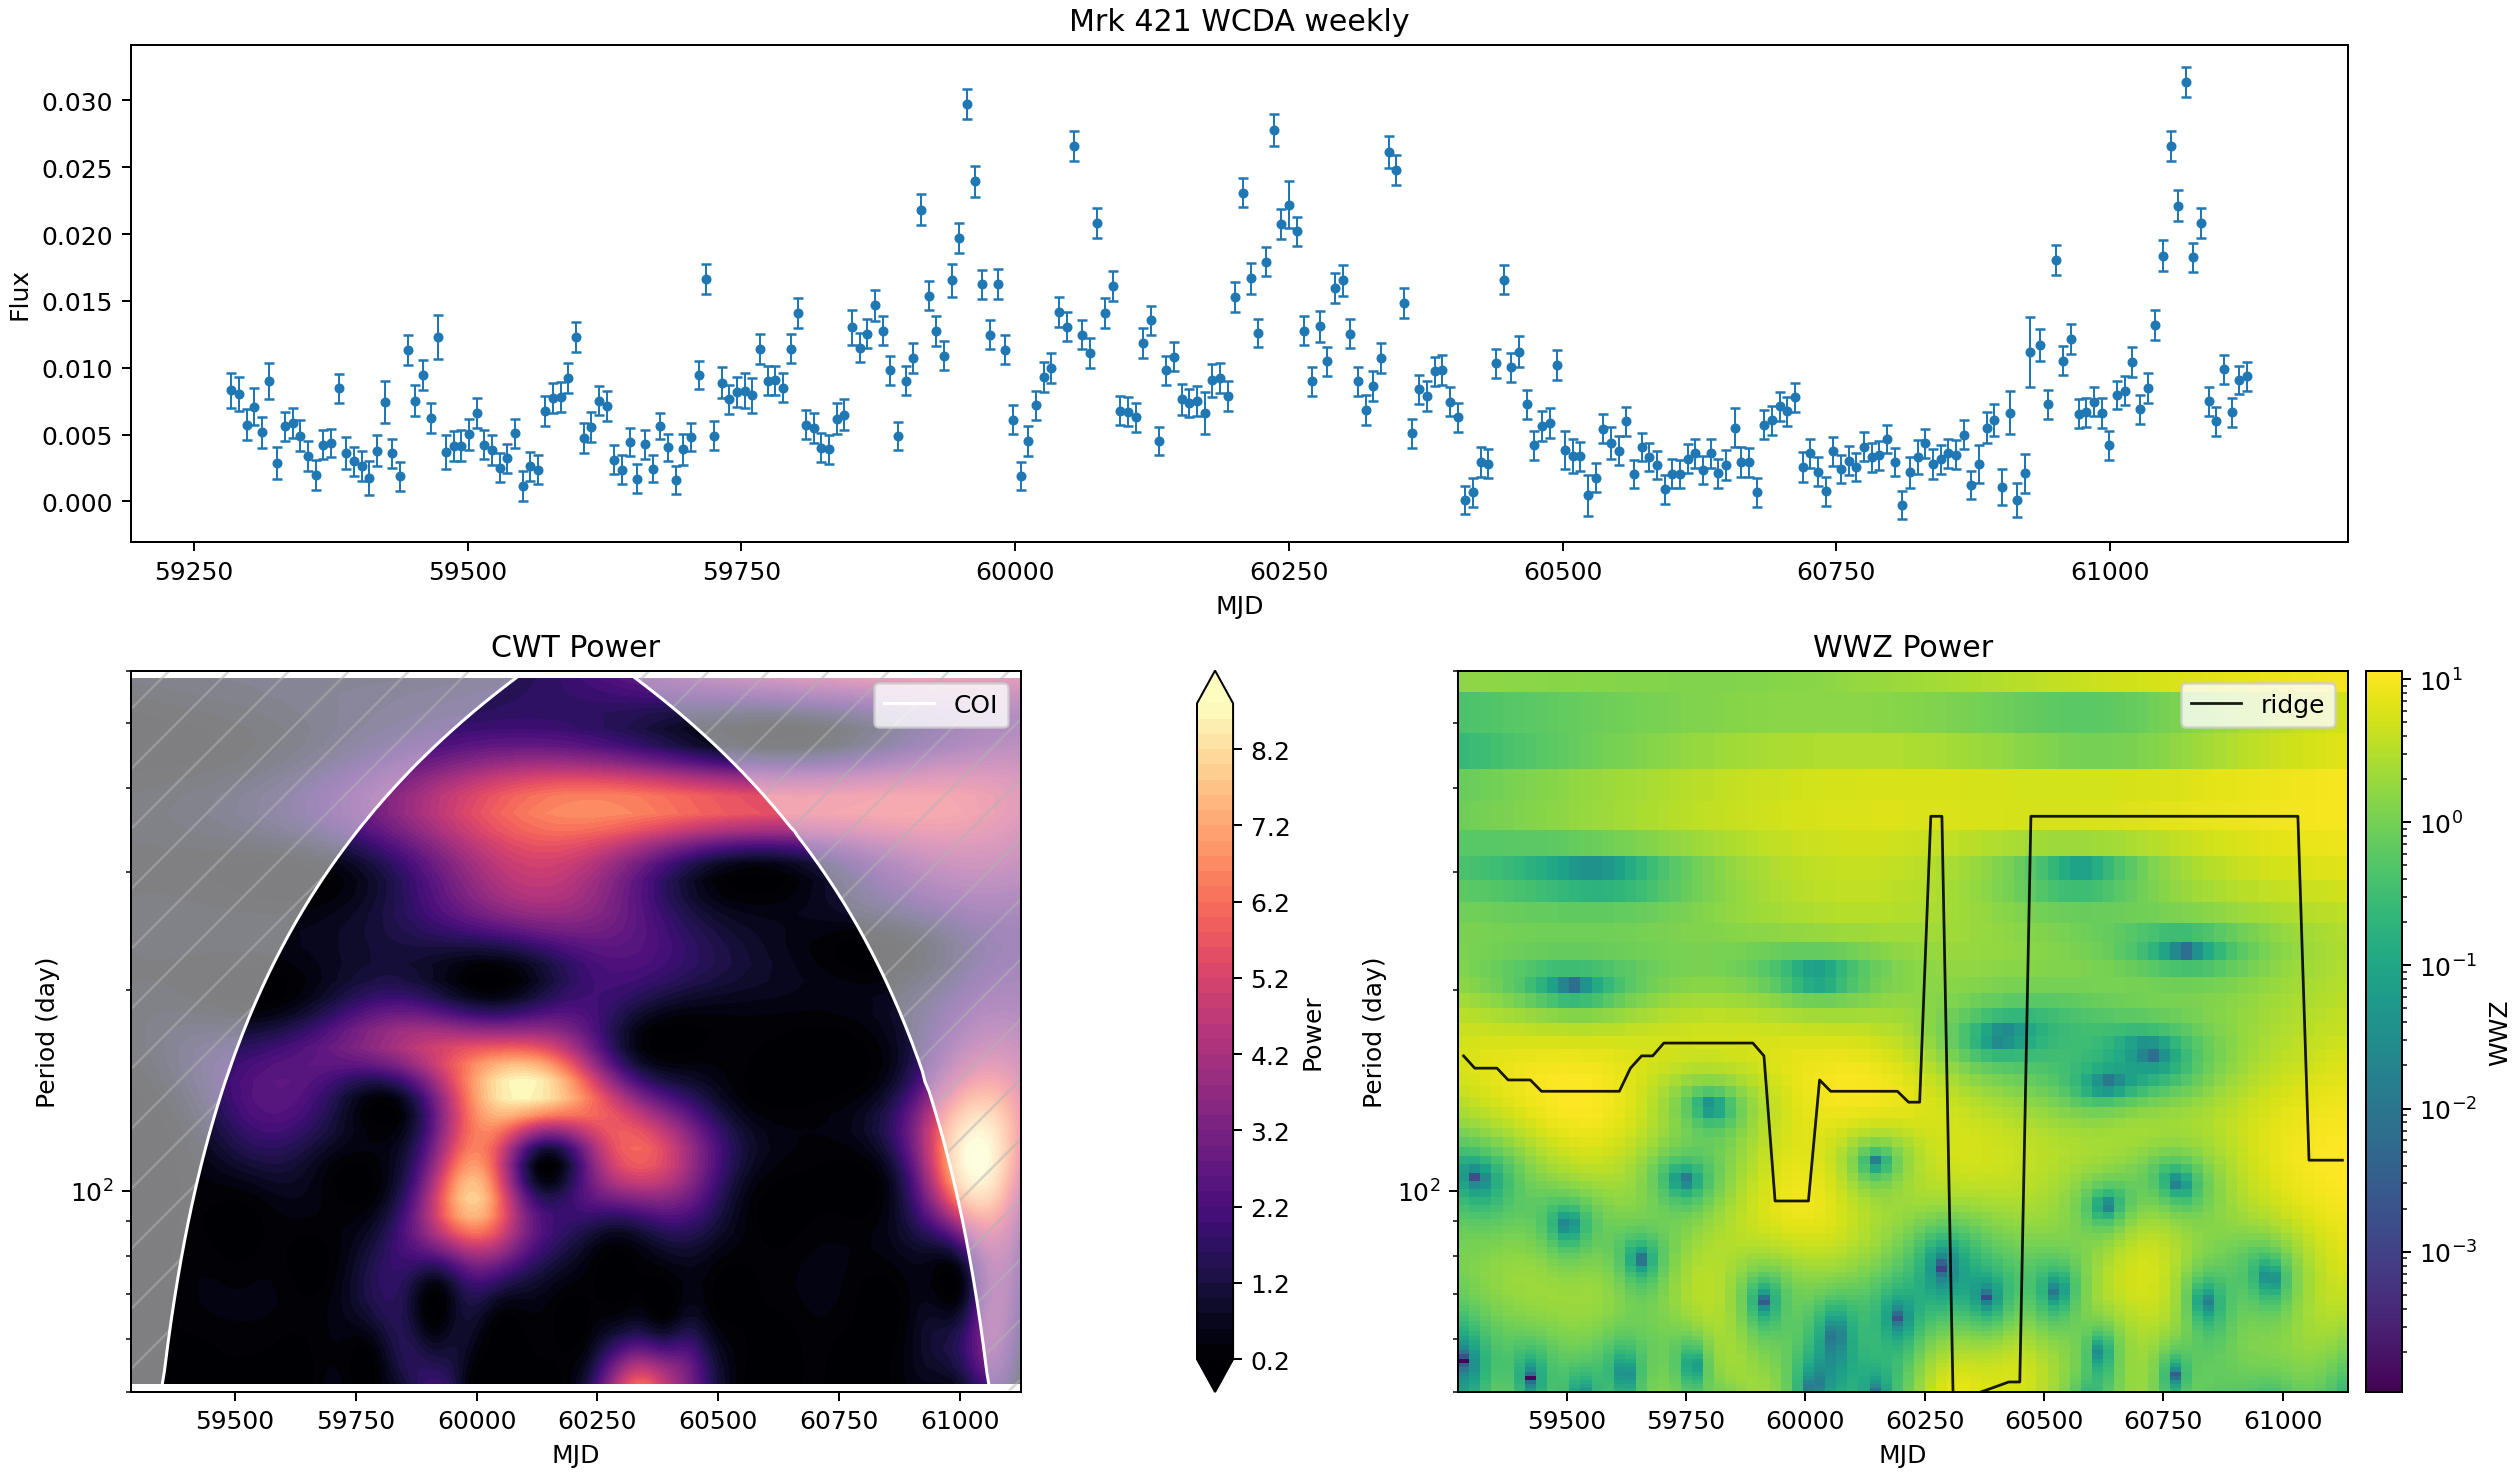
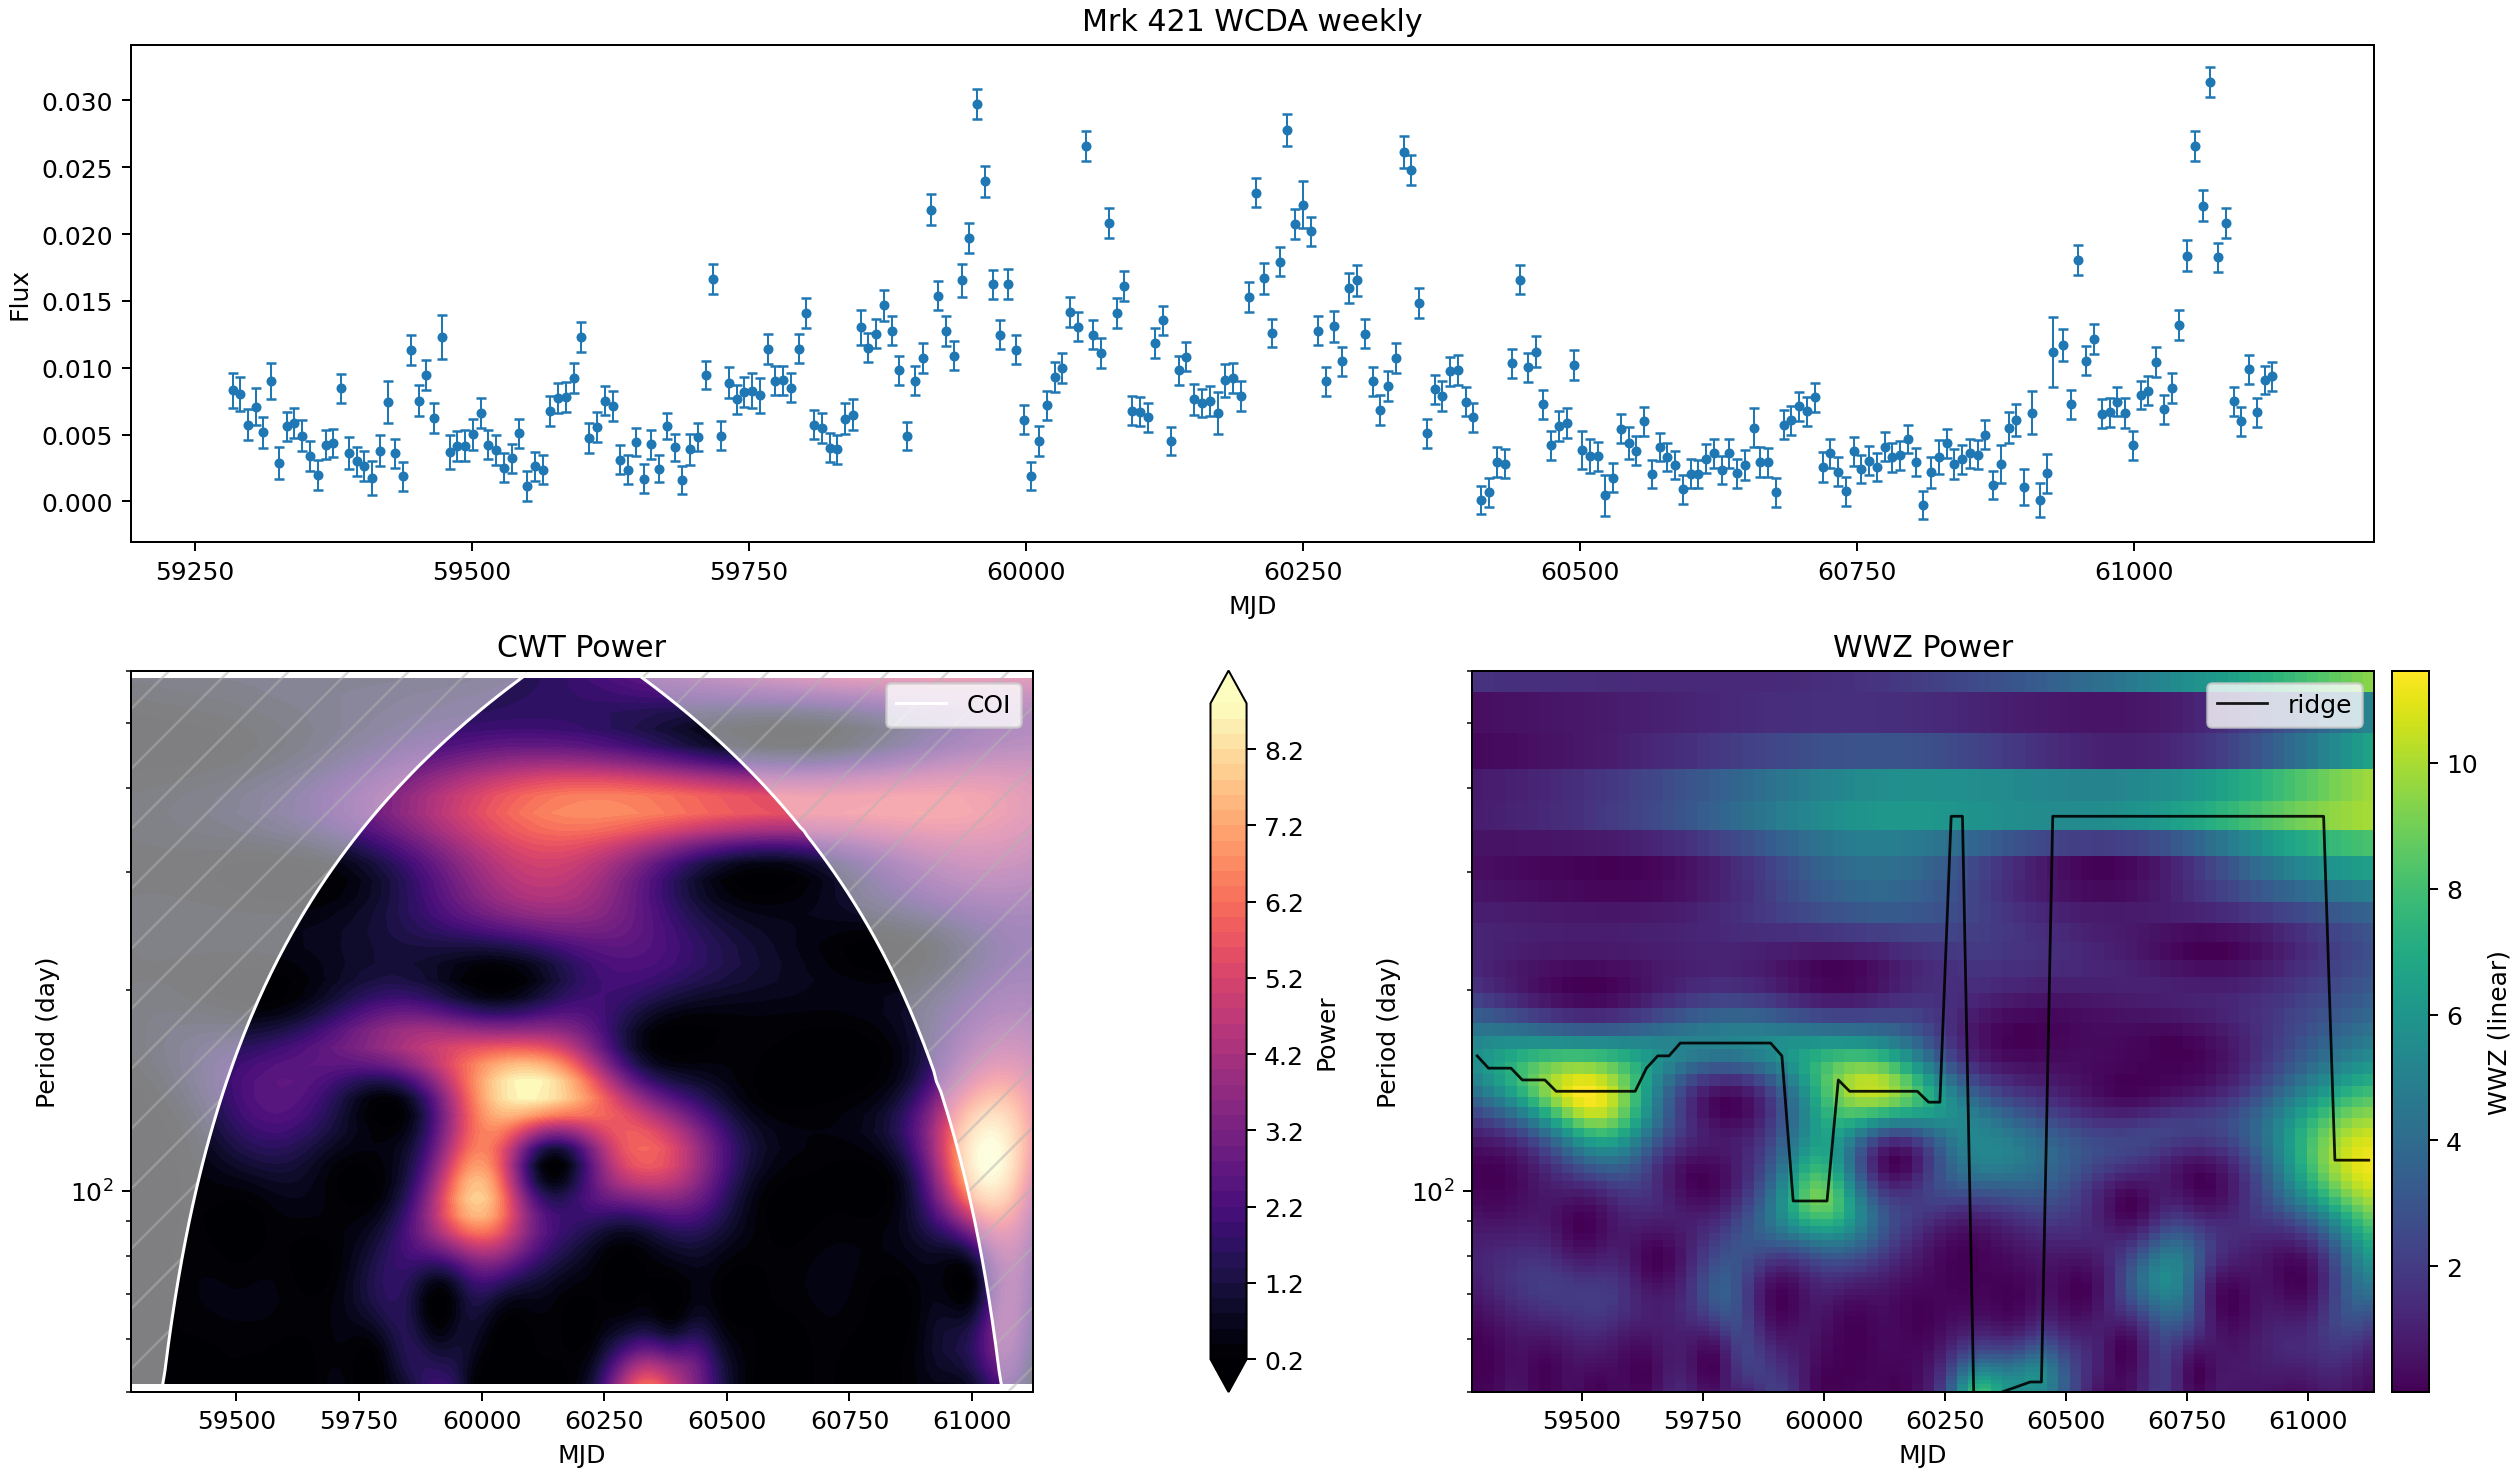
Use linear WWZ heatmaps with log comparisons

diff --git a/qpo-periodicity-v1/index.html b/qpo-periodicity-v1/index.html
@@ -154,7 +154,7 @@
 
     <h2>方法</h2>
     <p>WCDA flux 使用 excess rate 表示：<code>sum(n_on - n_bkg) / tobs</code>，误差使用逐 hit bin 传播的 Poisson-style on/off 近似。CWT 使用 <code>pycwt</code> 的 Morlet wavelet，WWZ 使用 <code>libwwz</code>，入口脚本为 <code>src/pipeline/periodicity_v1.py</code>。</p>
-    <p>WWZ 热图采用对数颜色归一化，周期轴也使用对数刻度，以提高整个搜索周期范围内的可视化对比度。该修改只影响显示方式；WWZ 峰值搜索仍使用保存的线性 power 数值。</p>
+    <p>双源 WCDA weekly 主图现在使用线性 WWZ heatmap 色标；之前的 log-color 版本保留在折叠对照图中。周期轴仍保持 log scale，WWZ 峰值搜索仍使用保存的线性 power 数值。</p>
     <p class="note">当前 v1 不包含 red-noise simulations、Monte Carlo thresholds、local significance contours、pre-trial significance 或 post-trial significance。</p>
 
     <h2>峰值摘要</h2>
@@ -199,7 +199,11 @@
     <p class="result-note">Quick-look peaks：N=360，MJD 60763.167-61128.167，median cadence 1.000 d。CWT peak 为 104.95 d，GWS=19.650；WWZ mean-power peak 为 109.77 d，power=29.772。</p>
     <h3>WCDA weekly</h3>
     <p class="meta">时间覆盖：2021-03-11 07:59 UTC 至 2026-03-26 04:00 UTC。</p>
-    <figure><img src="assets/mkn421/wcda_weekly_periodicity.png" alt="Mrk 421 WCDA weekly light curve, CWT, and WWZ"><figcaption>第一行单独显示光变曲线，第二行左侧为 CWT，右侧为 WWZ。</figcaption></figure>
+    <figure><img src="assets/mkn421/wcda_weekly_periodicity.png" alt="Mrk 421 WCDA weekly light curve, CWT, and linear-color WWZ"><figcaption>主图使用线性 WWZ heatmap 色标；周期轴仍保持 log scale。</figcaption></figure>
+    <details>
+      <summary>展开 Mrk 421 WCDA weekly 的 log-color WWZ 对照图</summary>
+      <figure><img src="assets/mkn421/wcda_weekly_periodicity_logcolor.png" alt="Mrk 421 WCDA weekly log-color WWZ comparison"><figcaption>之前的 log-color WWZ 渲染，仅用于视觉对照。</figcaption></figure>
+    </details>
     <p class="result-note">Quick-look peaks：N=264，MJD 59284.333-61125.167，median cadence 7.000 d。CWT peak 为 367.33 d，GWS=4.486；WWZ mean-power peak 为 363.22 d，power=5.177。</p>
     <h3>Fermi weekly on WCDA axis</h3>
     <p class="meta">时间覆盖：2021-03-11 07:59 UTC 至 2026-01-22 04:00 UTC。</p>
@@ -209,7 +213,11 @@
     <h2>Mrk 501 图像</h2>
     <h3>WCDA weekly</h3>
     <p class="meta">时间覆盖：2021-03-11 07:59 UTC 至 2026-03-26 04:00 UTC。</p>
-    <figure><img src="assets/mkn501/wcda_weekly_periodicity.png" alt="Mrk 501 WCDA weekly light curve, CWT, and WWZ"><figcaption>第一行单独显示光变曲线，第二行左侧为 CWT，右侧为 WWZ。</figcaption></figure>
+    <figure><img src="assets/mkn501/wcda_weekly_periodicity.png" alt="Mrk 501 WCDA weekly light curve, CWT, and linear-color WWZ"><figcaption>主图使用线性 WWZ heatmap 色标；周期轴仍保持 log scale。</figcaption></figure>
+    <details>
+      <summary>展开 Mrk 501 WCDA weekly 的 log-color WWZ 对照图</summary>
+      <figure><img src="assets/mkn501/wcda_weekly_periodicity_logcolor.png" alt="Mrk 501 WCDA weekly log-color WWZ comparison"><figcaption>之前的 log-color WWZ 渲染，仅用于视觉对照。</figcaption></figure>
+    </details>
     <p class="result-note">Quick-look peaks：N=264，MJD 59284.333-61125.167，median cadence 7.000 d。CWT peak 为 389.17 d，GWS=4.407；WWZ mean-power peak 为 402.98 d，power=6.385。</p>
   </section>
 
@@ -229,7 +237,7 @@
 
     <h2>Methods</h2>
     <p>WCDA flux is represented as an excess rate, <code>sum(n_on - n_bkg) / tobs</code>, with a Poisson-style on/off error approximation propagated per hit bin. CWT uses a Morlet wavelet through <code>pycwt</code>. WWZ uses <code>libwwz</code>, with the v1 quick-look grid saved by <code>src/pipeline/periodicity_v1.py</code>.</p>
-    <p>WWZ heatmaps use log color normalization and a log-scaled period axis to improve visual contrast across the searched period range. This changes the display only; the WWZ peak search still uses the saved linear power values.</p>
+    <p>The two-source WCDA weekly main figures now use linear WWZ heatmap color normalization. The previous log-color versions are retained in folded comparison panels. The period axis remains log-scaled, and the WWZ peak search still uses the saved linear power values.</p>
     <p class="note">This v1 report includes no red-noise simulations, Monte Carlo thresholds, local significance contours, pre-trial significance, or post-trial significance.</p>
 
     <h2>Peak Summary</h2>
@@ -274,7 +282,11 @@
     <p class="result-note">Quick-look peaks: N=360, MJD 60763.167-61128.167, median cadence 1.000 d. CWT peak is 104.95 d with GWS 19.650; WWZ mean-power peak is 109.77 d with power 29.772.</p>
     <h3>WCDA weekly</h3>
     <p class="meta">Time coverage: 2021-03-11 07:59 UTC to 2026-03-26 04:00 UTC.</p>
-    <figure><img src="assets/mkn421/wcda_weekly_periodicity.png" alt="Mrk 421 WCDA weekly light curve, CWT, and WWZ"><figcaption>The first row shows only the light curve; the second row separates CWT on the left and WWZ on the right.</figcaption></figure>
+    <figure><img src="assets/mkn421/wcda_weekly_periodicity.png" alt="Mrk 421 WCDA weekly light curve, CWT, and linear-color WWZ"><figcaption>Main display uses linear WWZ heatmap color normalization; the period axis remains log-scaled.</figcaption></figure>
+    <details>
+      <summary>Show log-color WWZ comparison for Mrk 421 WCDA weekly</summary>
+      <figure><img src="assets/mkn421/wcda_weekly_periodicity_logcolor.png" alt="Mrk 421 WCDA weekly log-color WWZ comparison"><figcaption>Previous log-color WWZ rendering kept for visual comparison only.</figcaption></figure>
+    </details>
     <p class="result-note">Quick-look peaks: N=264, MJD 59284.333-61125.167, median cadence 7.000 d. CWT peak is 367.33 d with GWS 4.486; WWZ mean-power peak is 363.22 d with power 5.177.</p>
     <h3>Fermi weekly on WCDA axis</h3>
     <p class="meta">Time coverage: 2021-03-11 07:59 UTC to 2026-01-22 04:00 UTC.</p>
@@ -284,7 +296,11 @@
     <h2>Mrk 501 Figures</h2>
     <h3>WCDA weekly</h3>
     <p class="meta">Time coverage: 2021-03-11 07:59 UTC to 2026-03-26 04:00 UTC.</p>
-    <figure><img src="assets/mkn501/wcda_weekly_periodicity.png" alt="Mrk 501 WCDA weekly light curve, CWT, and WWZ"><figcaption>The first row shows only the light curve; the second row separates CWT on the left and WWZ on the right.</figcaption></figure>
+    <figure><img src="assets/mkn501/wcda_weekly_periodicity.png" alt="Mrk 501 WCDA weekly light curve, CWT, and linear-color WWZ"><figcaption>Main display uses linear WWZ heatmap color normalization; the period axis remains log-scaled.</figcaption></figure>
+    <details>
+      <summary>Show log-color WWZ comparison for Mrk 501 WCDA weekly</summary>
+      <figure><img src="assets/mkn501/wcda_weekly_periodicity_logcolor.png" alt="Mrk 501 WCDA weekly log-color WWZ comparison"><figcaption>Previous log-color WWZ rendering kept for visual comparison only.</figcaption></figure>
+    </details>
     <p class="result-note">Quick-look peaks: N=264, MJD 59284.333-61125.167, median cadence 7.000 d. CWT peak is 389.17 d with GWS 4.407; WWZ mean-power peak is 402.98 d with power 6.385.</p>
   </section>
 </main>

diff --git a/qpo-periodicity-v1/periodicity_v1_report.md b/qpo-periodicity-v1/periodicity_v1_report.md
@@ -4,7 +4,7 @@ Published on GitHub Pages. Report date: 2026-05-21.
 
 This report keeps the existing Mrk 421 WCDA/Fermi quick-look periodicity analysis, adds the newly generated Mrk 501 LHAASO-WCDA weekly light curve, and includes an xgm-poster-style Mrk 421 daily WWZ reproduction check. It runs CWT and WWZ checks and intentionally excludes simulation-based significance testing.
 
-The updated figures use a clearer layout: the light curve is shown across the first row, while CWT and WWZ maps are separated on the second row. WWZ heatmaps now use log color normalization and a log-scaled period axis for better visual contrast across the searched period range.
+The updated figures use a clearer layout: the light curve is shown across the first row, while CWT and WWZ maps are separated on the second row. The WCDA weekly main displays now use linear WWZ heatmap color normalization; previous log-color versions are retained as visual references. The period axis remains log-scaled.
 
 ## Peak Summary
 
@@ -28,6 +28,23 @@ The published HTML page includes Chinese and English views with an in-page langu
 - Mrk 501 WCDA weekly covers 2021-03-11 07:59 UTC to 2026-03-26 04:00 UTC.
 - Mrk 501 WCDA weekly: CWT peak 389.17 d (GWS 4.407); WWZ peak 402.98 d (power 6.385).
 
+
+
+## WCDA Weekly WWZ Color-Scale Comparison
+
+Main WCDA weekly figures now use linear WWZ heatmap color normalization:
+
+![Mrk 421 WCDA weekly linear-color WWZ](assets/mkn421/wcda_weekly_periodicity.png)
+
+Log-color reference kept for comparison:
+
+![Mrk 421 WCDA weekly log-color WWZ](assets/mkn421/wcda_weekly_periodicity_logcolor.png)
+
+![Mrk 501 WCDA weekly linear-color WWZ](assets/mkn501/wcda_weekly_periodicity.png)
+
+Log-color reference kept for comparison:
+
+![Mrk 501 WCDA weekly log-color WWZ](assets/mkn501/wcda_weekly_periodicity_logcolor.png)
 
 ## xgm poster 复现检查
 
